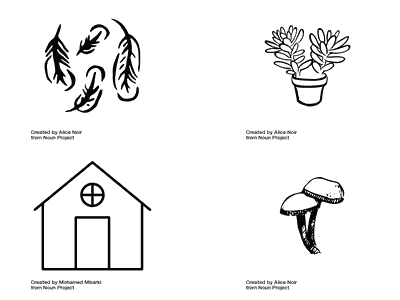
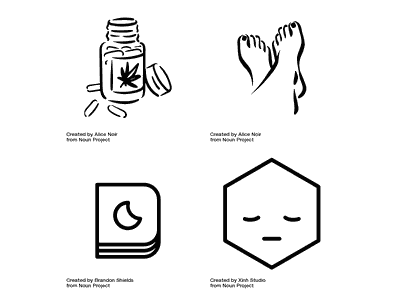
better spacing and padding

diff --git a/glyphe.py b/glyphe.py
@@ -11,16 +11,16 @@ total_height = 1460 # 2 * 700 + 60
 
 new_image = Image.new('RGBA', (total_width, total_height), (255, 255, 255))
 
-offset = (100, 20)
+offset = ( int(total_width / 2) - 700, 30)
 new_image.paste( Image.open(dir + 'icons/' + str(icons[0])), offset )
 
-offset = ( new_image.width - 800, 20 )
+offset = ( int(total_width / 2), 30 )
 new_image.paste( Image.open(dir + 'icons/' + icons[1]), offset )
 
-offset = (100, int(new_image.height / 2) + 20)
+offset = ( int(total_width / 2) - 700, int(new_image.height / 2) + 10)
 new_image.paste( Image.open(dir + 'icons/' + icons[2]), offset )
 
-offset = ( new_image.width - 800, int(new_image.height / 2) + 20 )
+offset = ( int(new_image.width / 2), int(new_image.height / 2) + 10 )
 new_image.paste( Image.open(dir + 'icons/' + icons[3]), offset )
 
 new_image.convert('P')
